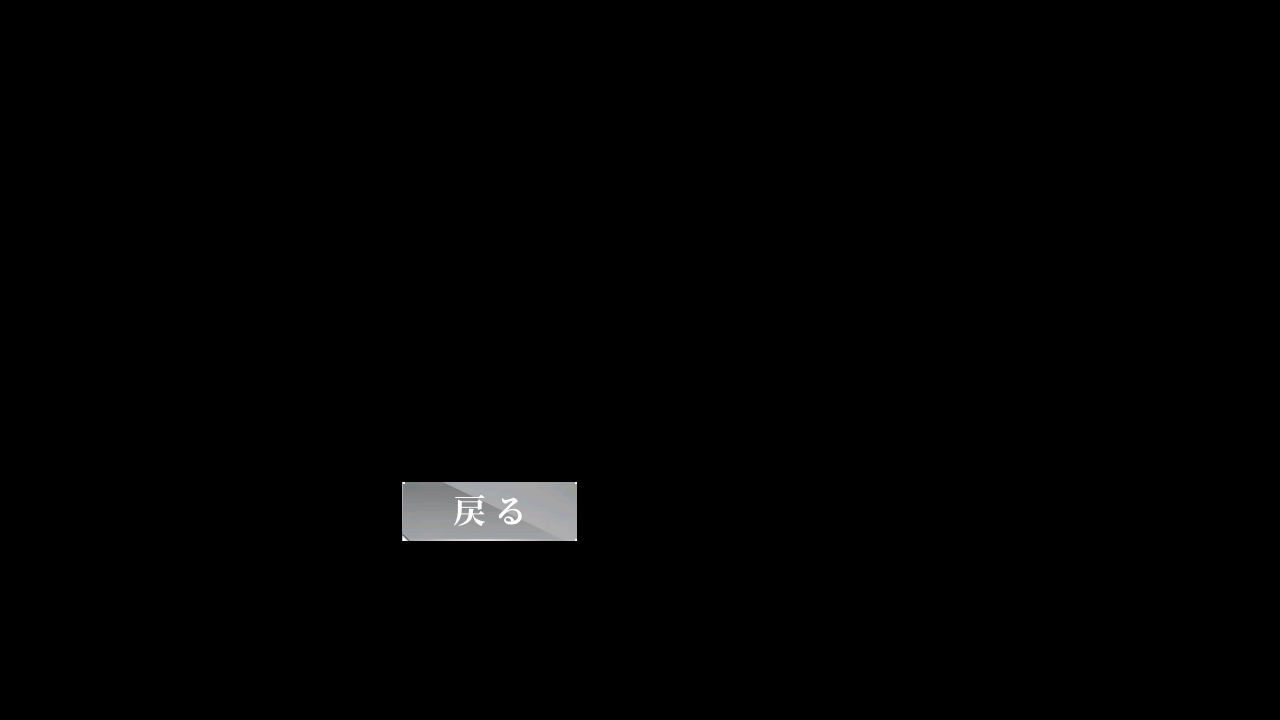
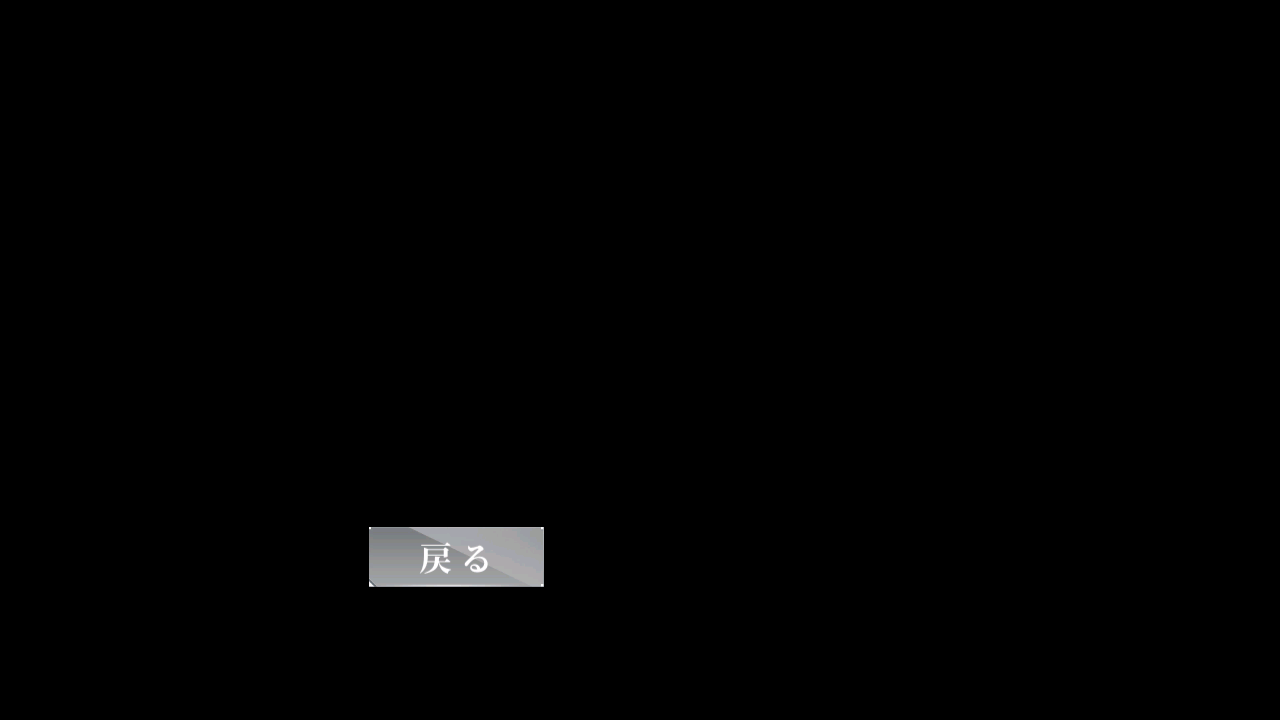
Fix: [jp] ACTION_POINT use & cancel assets

Changed region(s): [[0.2812, 0.6722, 0.4688, 0.825]]

diff --git a/module/os_handler/assets.py b/module/os_handler/assets.py
@@ -5,9 +5,9 @@ from module.base.template import Template
 # Don't modify it manually.
 
 ACTION_POINT_BUY_REMAIN = Button(area={'cn': (803, 458, 833, 482), 'en': (907, 458, 941, 483), 'jp': (803, 458, 833, 482), 'tw': (803, 458, 833, 482)}, color={'cn': (108, 138, 125), 'en': (106, 145, 116), 'jp': (108, 138, 125), 'tw': (108, 138, 125)}, button={'cn': (803, 458, 833, 482), 'en': (907, 458, 941, 483), 'jp': (803, 458, 833, 482), 'tw': (803, 458, 833, 482)}, file={'cn': './assets/cn/os_handler/ACTION_POINT_BUY_REMAIN.png', 'en': './assets/en/os_handler/ACTION_POINT_BUY_REMAIN.png', 'jp': './assets/cn/os_handler/ACTION_POINT_BUY_REMAIN.png', 'tw': './assets/cn/os_handler/ACTION_POINT_BUY_REMAIN.png'})
-ACTION_POINT_CANCEL = Button(area={'cn': (370, 528, 542, 585), 'en': (375, 531, 537, 584), 'jp': (402, 482, 577, 541), 'tw': (370, 528, 542, 585)}, color={'cn': (167, 168, 171), 'en': (170, 172, 175), 'jp': (162, 164, 166), 'tw': (167, 168, 171)}, button={'cn': (370, 528, 542, 585), 'en': (375, 531, 537, 584), 'jp': (402, 482, 577, 541), 'tw': (370, 528, 542, 585)}, file={'cn': './assets/cn/os_handler/ACTION_POINT_CANCEL.png', 'en': './assets/en/os_handler/ACTION_POINT_CANCEL.png', 'jp': './assets/jp/os_handler/ACTION_POINT_CANCEL.png', 'tw': './assets/cn/os_handler/ACTION_POINT_CANCEL.png'})
+ACTION_POINT_CANCEL = Button(area={'cn': (370, 528, 542, 585), 'en': (375, 531, 537, 584), 'jp': (369, 527, 544, 587), 'tw': (370, 528, 542, 585)}, color={'cn': (167, 168, 171), 'en': (170, 172, 175), 'jp': (161, 163, 165), 'tw': (167, 168, 171)}, button={'cn': (370, 528, 542, 585), 'en': (375, 531, 537, 584), 'jp': (369, 527, 544, 587), 'tw': (370, 528, 542, 585)}, file={'cn': './assets/cn/os_handler/ACTION_POINT_CANCEL.png', 'en': './assets/en/os_handler/ACTION_POINT_CANCEL.png', 'jp': './assets/jp/os_handler/ACTION_POINT_CANCEL.png', 'tw': './assets/cn/os_handler/ACTION_POINT_CANCEL.png'})
 ACTION_POINT_REMAIN = Button(area={'cn': (892, 220, 952, 241), 'en': (892, 220, 952, 241), 'jp': (892, 220, 952, 241), 'tw': (892, 220, 952, 241)}, color={'cn': (124, 127, 113), 'en': (124, 127, 113), 'jp': (124, 127, 113), 'tw': (124, 127, 113)}, button={'cn': (892, 220, 952, 241), 'en': (892, 220, 952, 241), 'jp': (892, 220, 952, 241), 'tw': (892, 220, 952, 241)}, file={'cn': './assets/cn/os_handler/ACTION_POINT_REMAIN.png', 'en': './assets/en/os_handler/ACTION_POINT_REMAIN.png', 'jp': './assets/jp/os_handler/ACTION_POINT_REMAIN.png', 'tw': './assets/tw/os_handler/ACTION_POINT_REMAIN.png'})
-ACTION_POINT_USE = Button(area={'cn': (738, 528, 910, 585), 'en': (742, 531, 909, 584), 'jp': (702, 481, 878, 541), 'tw': (738, 528, 910, 585)}, color={'cn': (93, 142, 203), 'en': (107, 152, 208), 'jp': (94, 142, 203), 'tw': (93, 142, 203)}, button={'cn': (738, 528, 910, 585), 'en': (742, 531, 909, 584), 'jp': (702, 481, 878, 541), 'tw': (738, 528, 910, 585)}, file={'cn': './assets/cn/os_handler/ACTION_POINT_USE.png', 'en': './assets/en/os_handler/ACTION_POINT_USE.png', 'jp': './assets/jp/os_handler/ACTION_POINT_USE.png', 'tw': './assets/cn/os_handler/ACTION_POINT_USE.png'})
+ACTION_POINT_USE = Button(area={'cn': (738, 528, 910, 585), 'en': (742, 531, 909, 584), 'jp': (737, 528, 911, 586), 'tw': (738, 528, 910, 585)}, color={'cn': (93, 142, 203), 'en': (107, 152, 208), 'jp': (92, 141, 203), 'tw': (93, 142, 203)}, button={'cn': (738, 528, 910, 585), 'en': (742, 531, 909, 584), 'jp': (737, 528, 911, 586), 'tw': (738, 528, 910, 585)}, file={'cn': './assets/cn/os_handler/ACTION_POINT_USE.png', 'en': './assets/en/os_handler/ACTION_POINT_USE.png', 'jp': './assets/jp/os_handler/ACTION_POINT_USE.png', 'tw': './assets/cn/os_handler/ACTION_POINT_USE.png'})
 ASH_POPUP_CHECK = Button(area={'cn': (352, 249, 928, 479), 'en': (352, 228, 926, 462), 'jp': (362, 351, 920, 411), 'tw': (376, 368, 902, 396)}, color={'cn': (107, 117, 135), 'en': (125, 129, 139), 'jp': (120, 107, 119), 'tw': (134, 105, 119)}, button={'cn': (352, 249, 928, 479), 'en': (352, 228, 926, 462), 'jp': (362, 351, 920, 411), 'tw': (376, 368, 902, 396)}, file={'cn': './assets/cn/os_handler/ASH_POPUP_CHECK.png', 'en': './assets/en/os_handler/ASH_POPUP_CHECK.png', 'jp': './assets/jp/os_handler/ASH_POPUP_CHECK.png', 'tw': './assets/tw/os_handler/ASH_POPUP_CHECK.png'})
 AUTO_SEARCH_OS_MAP_OPTION_OFF = Button(area={'cn': (1205, 549, 1275, 566), 'en': (1196, 574, 1273, 586), 'jp': (1204, 572, 1276, 593), 'tw': (1205, 549, 1275, 566)}, color={'cn': (196, 169, 169), 'en': (154, 135, 141), 'jp': (180, 154, 157), 'tw': (196, 169, 169)}, button={'cn': (1205, 549, 1275, 566), 'en': (1196, 574, 1273, 586), 'jp': (1204, 572, 1276, 593), 'tw': (1205, 549, 1275, 566)}, file={'cn': './assets/cn/os_handler/AUTO_SEARCH_OS_MAP_OPTION_OFF.png', 'en': './assets/en/os_handler/AUTO_SEARCH_OS_MAP_OPTION_OFF.png', 'jp': './assets/jp/os_handler/AUTO_SEARCH_OS_MAP_OPTION_OFF.png', 'tw': './assets/cn/os_handler/AUTO_SEARCH_OS_MAP_OPTION_OFF.png'})
 AUTO_SEARCH_OS_MAP_OPTION_ON = Button(area={'cn': (1205, 549, 1275, 566), 'en': (1198, 576, 1275, 588), 'jp': (1205, 573, 1275, 592), 'tw': (1205, 549, 1275, 566)}, color={'cn': (149, 176, 193), 'en': (116, 139, 160), 'jp': (145, 172, 190), 'tw': (149, 176, 193)}, button={'cn': (1205, 549, 1275, 566), 'en': (1198, 576, 1275, 588), 'jp': (1205, 573, 1275, 592), 'tw': (1205, 549, 1275, 566)}, file={'cn': './assets/cn/os_handler/AUTO_SEARCH_OS_MAP_OPTION_ON.png', 'en': './assets/en/os_handler/AUTO_SEARCH_OS_MAP_OPTION_ON.png', 'jp': './assets/jp/os_handler/AUTO_SEARCH_OS_MAP_OPTION_ON.png', 'tw': './assets/cn/os_handler/AUTO_SEARCH_OS_MAP_OPTION_ON.png'})
